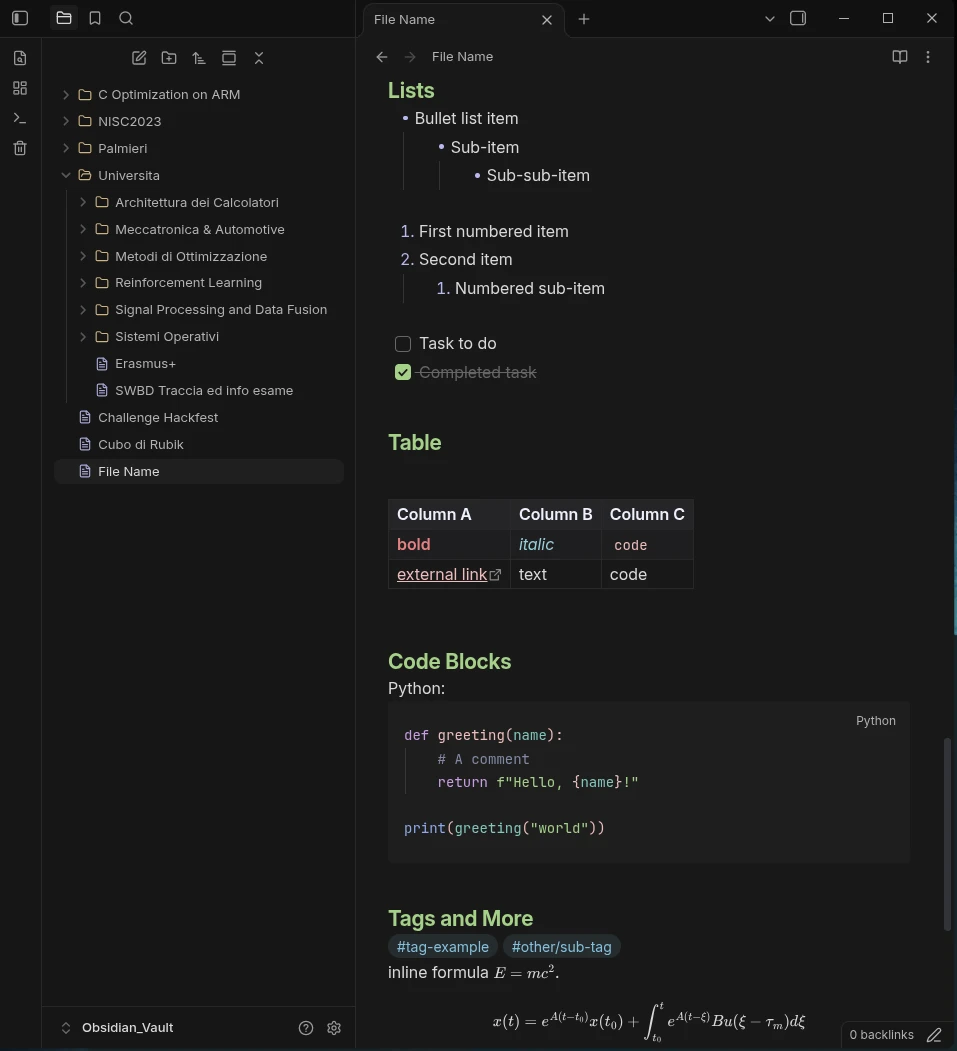
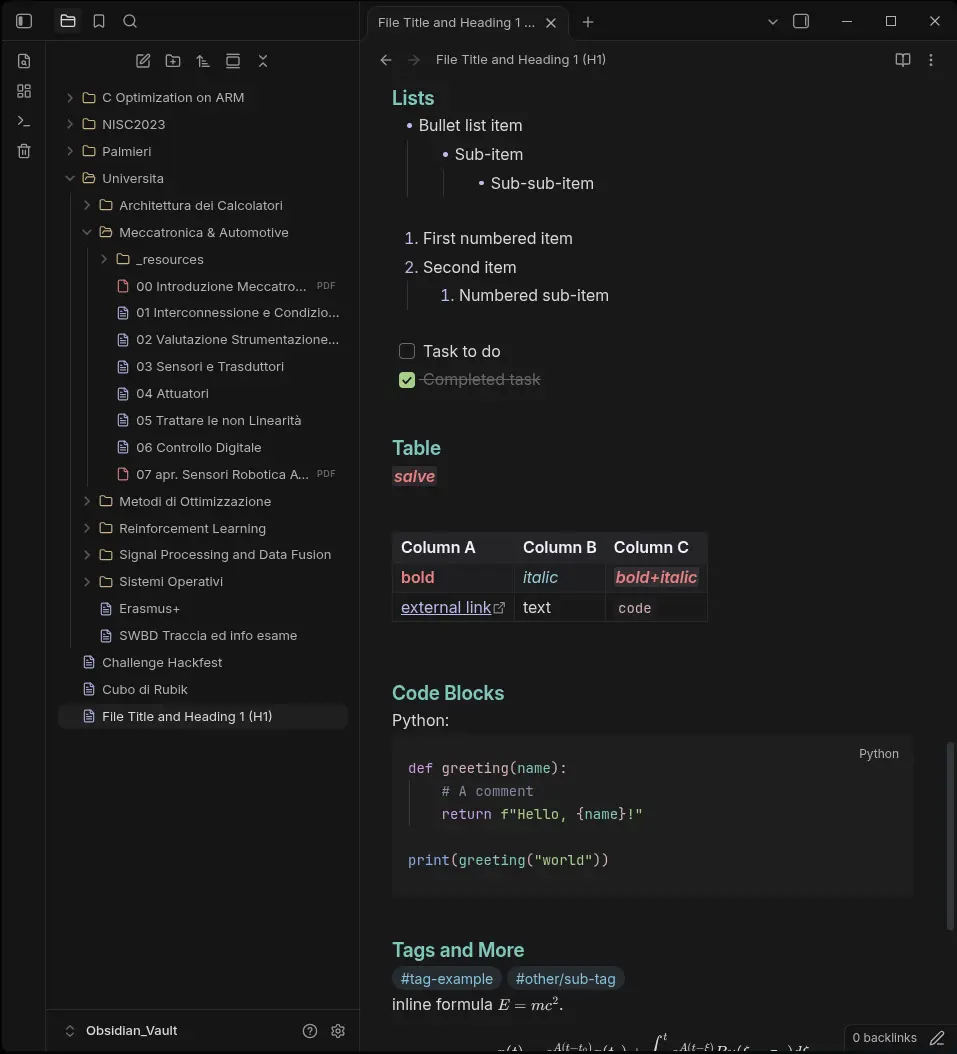
Retune palette for softer, more distinct colors
- Soften pink and flamingo in the dark palette (less luminous)
- Soften red in the light palette to reduce saturation
- Bold uses red, italic uses sky; bold+italic gets a tinted background
- Swap link colors: internal links teal, external links lavender
- Add explicit --link-color (internal links fell back to default)
- Rework heading colors so H5 and H6 are easier to tell apart

diff --git a/theme.css b/theme.css
@@ -17,8 +17,8 @@ body.theme-dark {
     --cp-red: 231, 130, 132;
     --cp-mauve: 202, 158, 230;
     --cp-lavender: 186, 187, 241;
-    --cp-pink: 244, 184, 228;
-    --cp-flamingo: 238, 190, 190;
+    --cp-pink: 220, 171, 208;
+    --cp-flamingo: 214, 178, 184;
     --cp-gray: 131, 139, 167;
 
     --accent-h: 239;
@@ -50,7 +50,7 @@ body.theme-light {
     --cp-green: 47, 138, 31;
     --cp-yellow: 176, 108, 10;
     --cp-peach: 214, 82, 6;
-    --cp-red: 210, 15, 57;
+    --cp-red: 184, 39, 76;
     --cp-mauve: 136, 57, 239;
     --cp-lavender: 72, 90, 215;
     --cp-pink: 193, 63, 160;
@@ -95,13 +95,15 @@ body {
     --h4-color: rgb(var(--cp-teal));
     --h5-color: rgb(var(--cp-blue));
     --h6-color: rgb(var(--cp-mauve));
-    --bold-color: rgb(var(--cp-red));
+
     --italic-color: rgb(var(--cp-sky));
+    --bold-color: rgb(var(--cp-red));
 
     /* Link interni ed esterni */
-    --link-color: rgb(var(--cp-lavender));
-    --link-external-color: rgb(var(--cp-flamingo));
-    --link-external-color-hover: rgb(var(--cp-peach));
+    --link-color: rgb(var(--cp-teal));
+    --link-color-hover: rgb(var(--cp-green));
+    --link-external-color: rgb(var(--cp-lavender));
+    --link-external-color-hover: rgb(var(--cp-pink));
     --link-unresolved-color: rgb(var(--cp-red));
     --link-unresolved-opacity: 0.85;
     --link-unresolved-decoration-style: dashed;
@@ -166,6 +168,15 @@ body {
 .markdown-rendered em,
 .markdown-source-view .cm-em {
     color: var(--italic-color);
+}
+
+.markdown-rendered strong em,
+.markdown-rendered em strong,
+.markdown-source-view .cm-strong.cm-em {
+    color: rgb(var(--cp-red));
+    background: rgba(var(--cp-pink), 0.12);
+    border-radius: 3px;
+    padding: 0 2px;
 }
 
 /* Attenua parentesi e URL in modalità edit */
